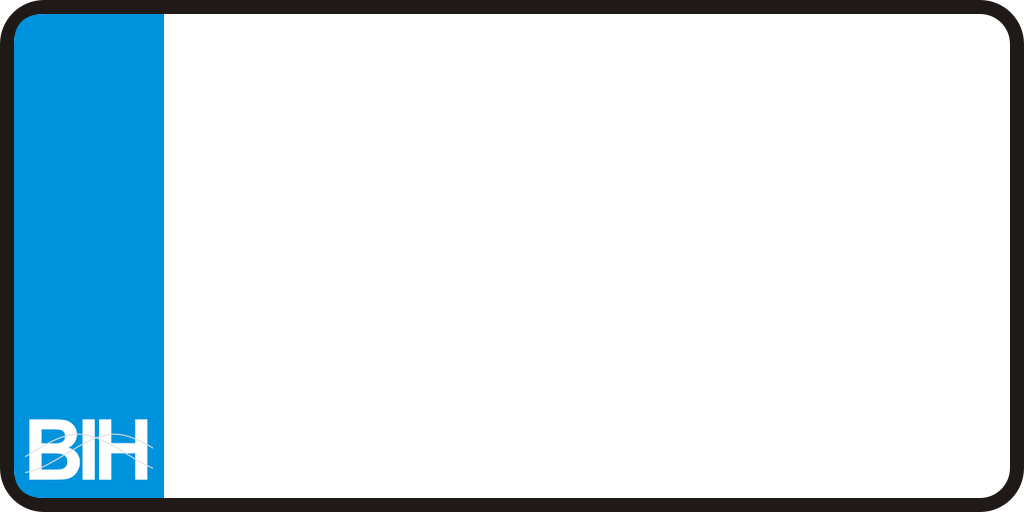
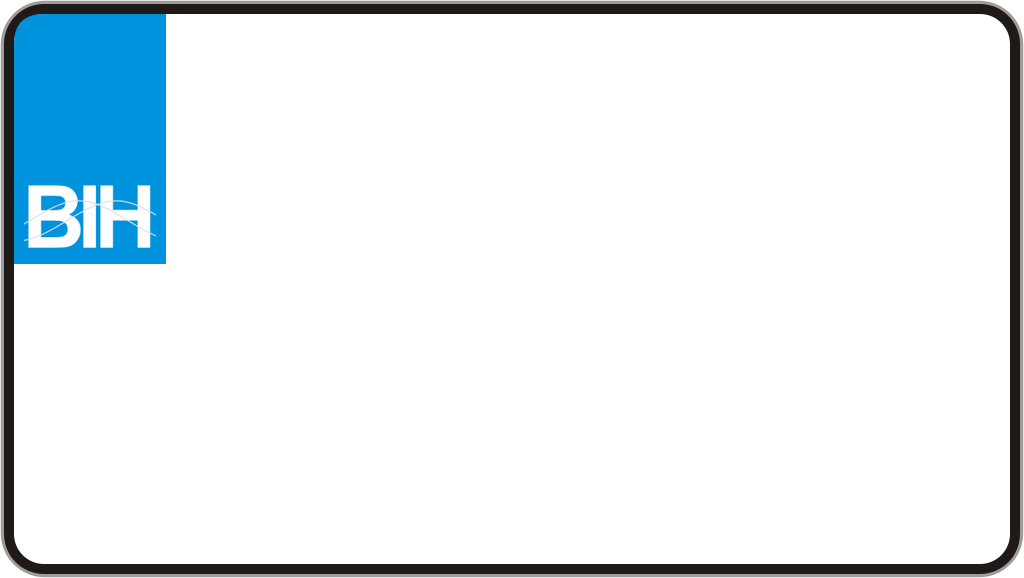
Bosnia two-line euroband plate rebuilt after a real one: small blue band at the top left, K98 over -M-599

Changed region(s): [[0.0, 0.0, 1.0, 1.0]]

diff --git a/app/lib/plateLayout.ts b/app/lib/plateLayout.ts
@@ -66,7 +66,7 @@ export type ArtRow = {
  *  - "al-moto":    letters | digits                    ("AB 123" → AB | 123)
  *  - "al-trailer-two": letters | "R" + digits          ("AB R 456" → AB | R 456)
  */
-export type SplitRule = "ba-two" | "be-seal" | "be-two" | "at47-two" | "at-prov" | "at-prov-two" | "at-two" | "at-seal" | "whole" | "seal" | "al-double" | "al-twoline" | "al-moto" | "al-trailer-two";
+export type SplitRule = "ba-two-eu" | "ba-two" | "be-seal" | "be-two" | "at47-two" | "at-prov" | "at-prov-two" | "at-two" | "at-seal" | "whole" | "seal" | "al-double" | "al-twoline" | "al-moto" | "al-trailer-two";
 
 export type PlateArt = {
   src: string;          // path under /public
@@ -190,7 +190,7 @@ export const PLATE_ART: Record<string, PlateArt> = {
   },
   // ── Bosnia: current plates (euroband, BiH). Same artwork for every category; FE-Schrift lettering. ──
   "bosnia:single-euroband": { src: "/plates/bosnia/standard-single.png", w: 1920, h: 458, rows: [{ y0: 66, y1: 384, x0: 228, x1: 1852, slots: 1 }], split: "whole", fill: 0.86 },
-  "bosnia:two-line-euroband": { src: "/plates/bosnia/standard-two.png", w: 1024, h: 512, rows: [{ y0: 26, y1: 262, x0: 190, x1: 1000, slots: 1, align: "left" }, { y0: 250, y1: 486, x0: 190, x1: 1000, slots: 1, align: "left" }], split: "ba-two", fill: 0.84 },
+  "bosnia:two-line-euroband": { src: "/plates/bosnia/standard-two.png", w: 1024, h: 578, rows: [{ y0: 36, y1: 286, x0: 180, x1: 996, slots: 1 }, { y0: 293, y1: 543, x0: 34, x1: 990, slots: 1 }], split: "ba-two-eu", fill: 0.78, fillWidth: true },
   // ── Bosnia: standard no-euroband plates (white, black frame). Black lettering in the Bosnian font. ──
   "bosnia:single-no-euroband": { src: "/plates/bosnia/y1998-single.png", w: 1024, h: 196, rows: [{ y0: 10, y1: 186, x0: 46, x1: 978, slots: 1 }], split: "whole", font: "ba", fill: 0.88, fillWidth: true },
   "bosnia:two-line-no-euroband": { src: "/plates/bosnia/y1998-two.png", w: 512, h: 256, rows: [{ y0: 8, y1: 134, x0: 26, x1: 486, slots: 1, align: "left" }, { y0: 122, y1: 248, x0: 26, x1: 486, slots: 1, align: "left" }], split: "ba-two", font: "ba", fill: 0.9, fillWidth: true },
@@ -375,6 +375,10 @@ function splitText(rule: SplitRule, text: string): string[] | null {
     if (rule === "be-seal") return [g[1], g[2]];
     const parts = g[2].match(/^([A-Z]+)-?(\d+)$/);
     return parts ? [`${g[1]}-${parts[1]}`, parts[2]] : null;
+  }
+  if (rule === "ba-two-eu") {                                                           // K98-M-599 → K98 | -M-599
+    const m = text.trim().match(/^([^-]+)(-.+)$/);
+    return m ? [m[1], m[2]] : null;
   }
   if (rule === "ba-two") {
     const m = text.trim().match(/^([^-]+)-([^-]+)-([^-]+)$/);                              // 743-M-844 → 743-M | -844

diff --git a/app/components/PlateBadge.tsx b/app/components/PlateBadge.tsx
@@ -12,7 +12,7 @@ export { formatPlateText } from "@/app/lib/plateLayout";
 export type { PlateSize };
 
 /** Bump when the plate rendering changes, so CDN-cached images refresh. */
-const PLATE_IMAGE_VERSION = 26;
+const PLATE_IMAGE_VERSION = 27;
 /** Render at 3× for crisp output on high-density screens. */
 const DENSITY = 3;
 
